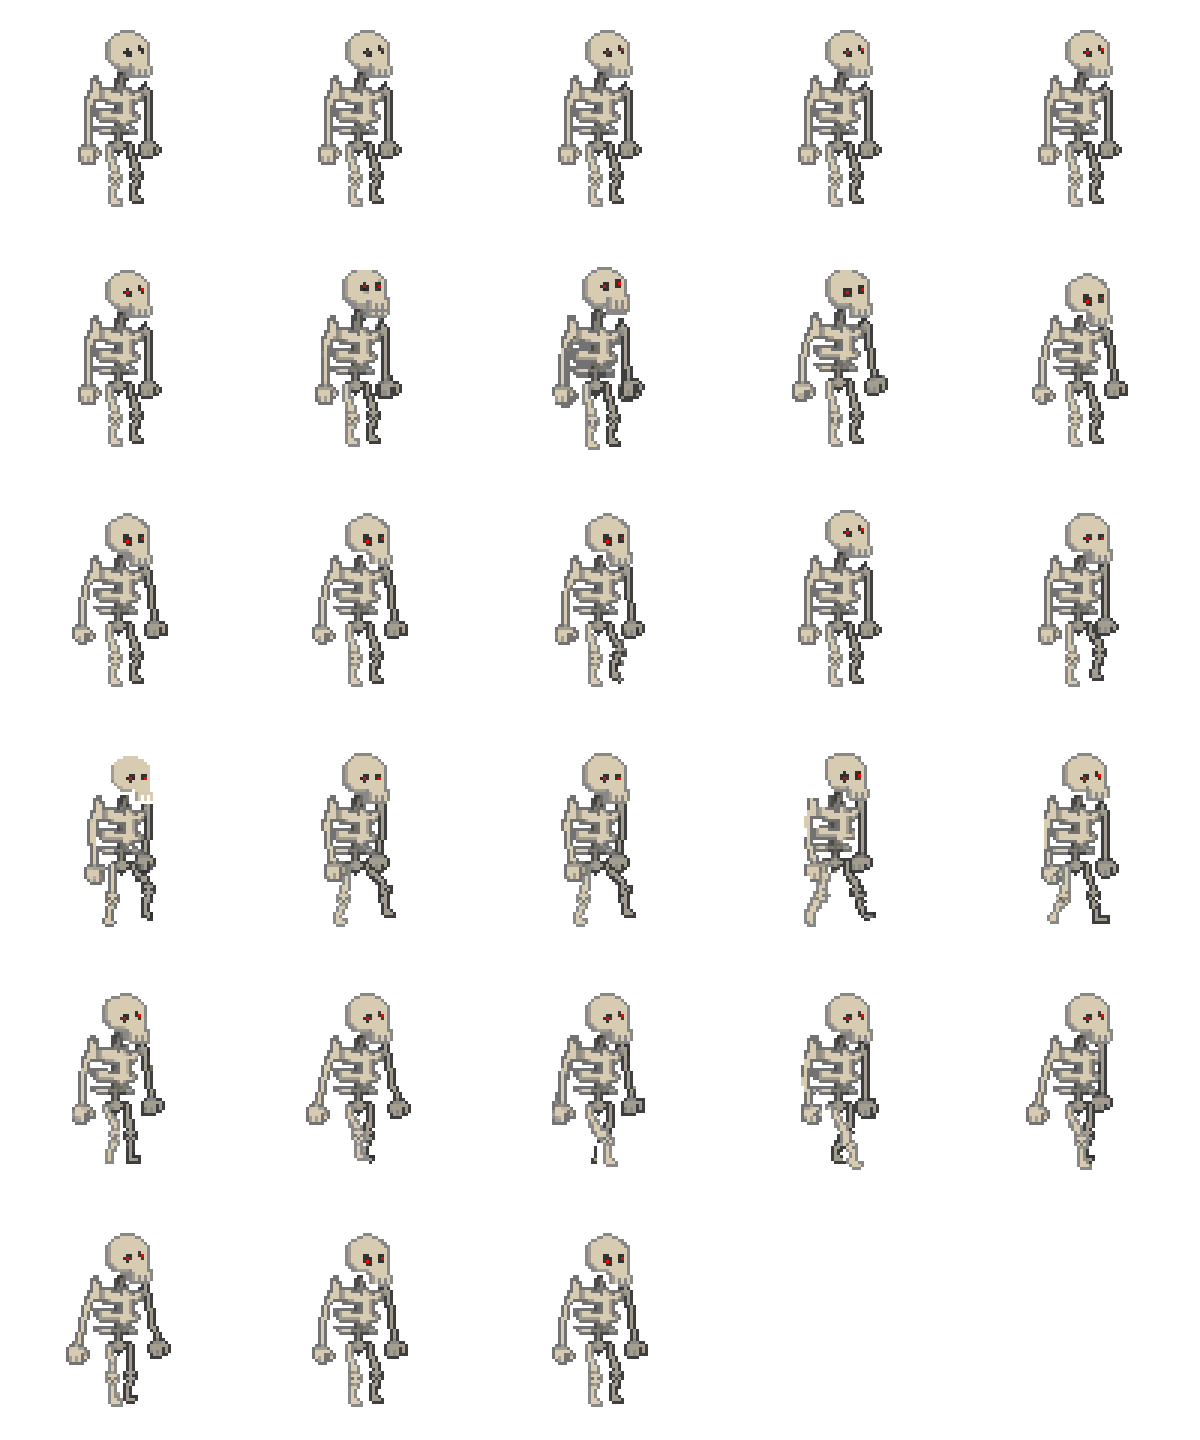
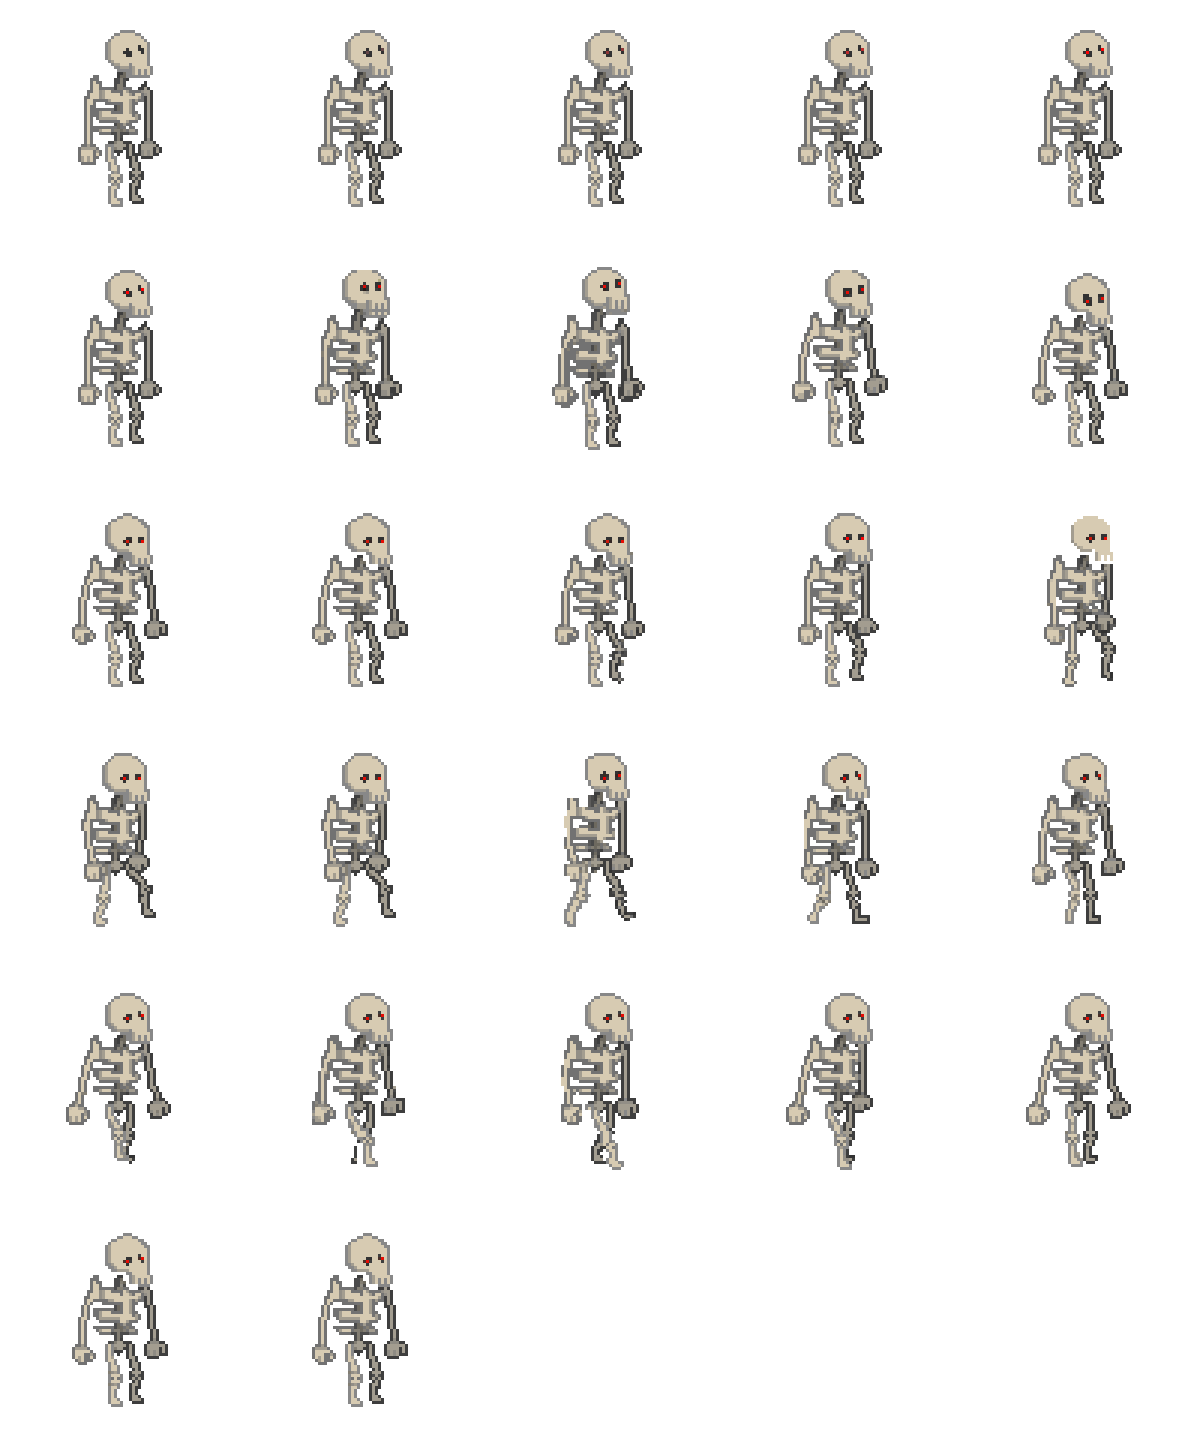
correction su sprite squelette

diff --git a/src/main/java/universite_paris8/iut/nchaieb/sae_jeux/vue/MonstreVue.java b/src/main/java/universite_paris8/iut/nchaieb/sae_jeux/vue/MonstreVue.java
@@ -21,7 +21,7 @@ import java.util.ArrayList;
 public class MonstreVue {
     private StackPane stackPane;
     private ArrayList<MonstreDeBase> listeMonstre= new ArrayList<>();;
-    private static int[] positionDeSpawn={-700,-70};
+    private static int[] positionDeSpawn={-700,-100};
     private Environnement environnement;
     int temps;
 
@@ -127,7 +127,7 @@ public class MonstreVue {
 
 
         Timeline squeletteMarche = new Timeline(
-                new KeyFrame(Duration.millis(120), e -> {
+                new KeyFrame(Duration.millis(90), e -> {
                     int x, y;
                     if (frameIndex[0] < 25) {
                         x = frameIndex[0] % 5;
@@ -138,7 +138,7 @@ public class MonstreVue {
                     }
                     iv.setViewport(new Rectangle2D(x * largeurCase, y * hauteurCase, largeurCase, hauteurCase));
                     frameIndex[0]++;
-                    if (frameIndex[0] == 28) frameIndex[0] = 12;
+                    if (frameIndex[0] == 27) frameIndex[0] = 12;
                 })
         );
         squeletteMarche.setCycleCount(Timeline.INDEFINITE);